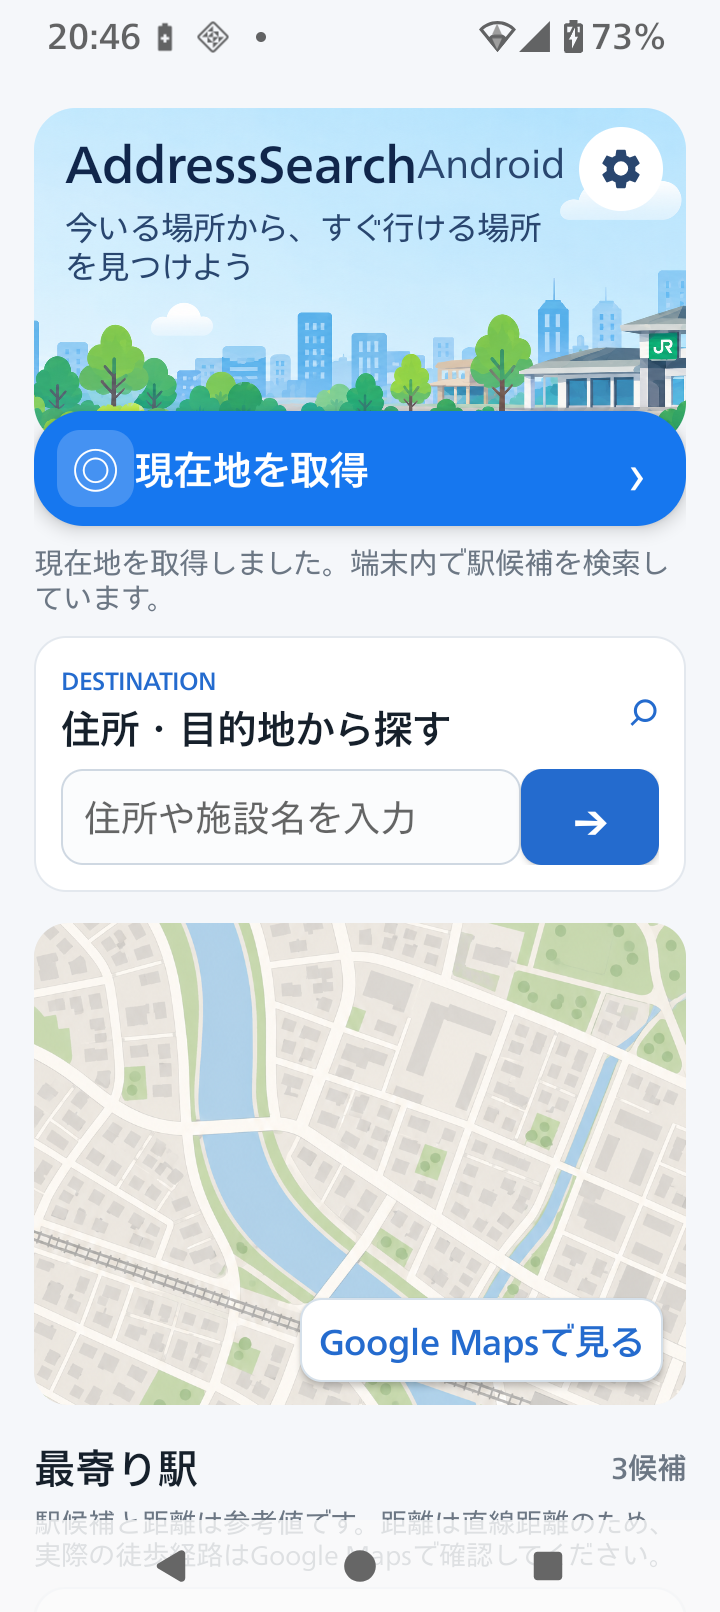
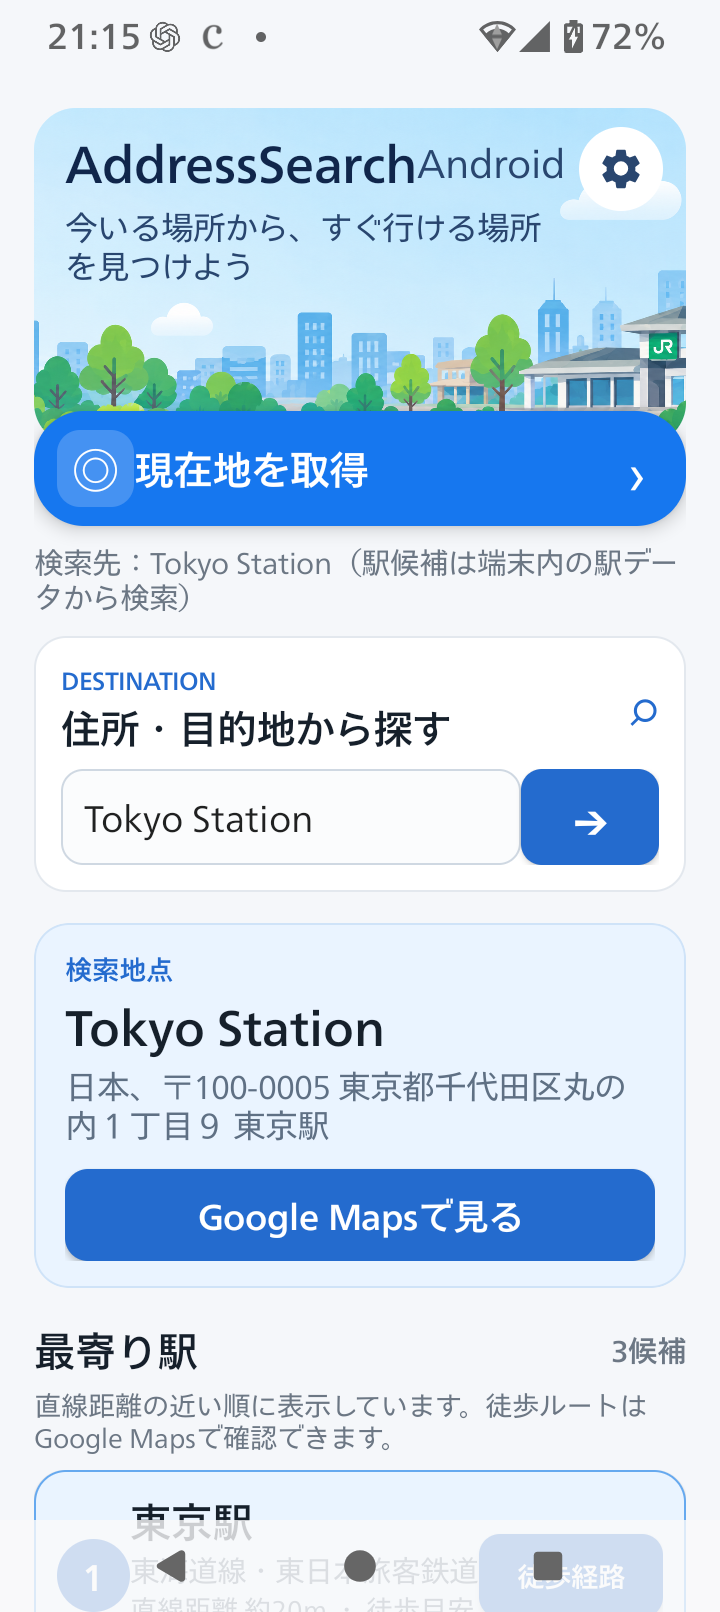
Refresh AddressSearch screenshots and remove map mockup

diff --git a/addresssearch.css b/addresssearch.css
@@ -12,13 +12,11 @@
 .address-page .feature-grid{display:grid;grid-template-columns:repeat(2,minmax(0,1fr));gap:0 34px;margin:35px 0 0;padding:0;list-style:none;border-top:1px solid var(--line)}
 .address-page .feature-grid li{position:relative;padding:20px 6px 20px 28px;border-bottom:1px solid var(--line);font-size:15px;line-height:1.75}
 .address-page .feature-grid li::before{content:"";position:absolute;left:5px;top:31px;width:8px;height:8px;border-radius:50%;background:var(--blue)}
-.address-page .app-visual-grid{display:grid;grid-template-columns:repeat(3,minmax(0,1fr));gap:22px;margin-top:36px;align-items:stretch}
-.address-page .app-screenshot-figure,.address-page .map-figure{margin:0;min-width:0;border:1px solid var(--line);background:var(--white)}
+.address-page .app-visual-grid{display:grid;grid-template-columns:repeat(2,minmax(0,1fr));gap:22px;margin-top:36px;align-items:stretch}
+.address-page .app-screenshot-figure{margin:0;min-width:0;border:1px solid var(--line);background:var(--white)}
 .address-page .app-screenshot-figure{display:flex;min-height:320px;flex-direction:column;align-items:center;justify-content:center;padding:20px;background:linear-gradient(145deg,#f7f9fb,#edf3f6)}
 .address-page .app-screenshot{display:block;width:auto;max-width:100%;max-height:620px;object-fit:contain;border:1px solid #d9e1e7;border-radius:16px;box-shadow:0 12px 28px rgba(24,33,43,.12)}
 .address-page .app-screenshot-figure figcaption{padding:12px 8px 0;color:var(--muted);font-size:12px;line-height:1.7;text-align:center}
-.address-page .map-figure img{display:block;width:100%;height:272px;object-fit:cover;object-position:center}
-.address-page .map-figure figcaption{padding:13px 16px;color:var(--muted);font-size:12px;line-height:1.7}
 .address-page .source-card{margin-top:30px;padding:22px 24px;background:#eef3f6;border-left:3px solid var(--blue)}
 .address-page .source-card p{margin:0;color:#344655;font-size:14px;line-height:1.85}
 .address-page .source-card p+p{margin-top:9px}
@@ -46,7 +44,6 @@
   .address-page .feature-grid{gap:0}
   .address-page .app-screenshot-figure{min-height:0;padding:16px}
   .address-page .app-screenshot{max-height:680px}
-  .address-page .map-figure img{height:auto;max-height:420px;object-fit:cover}
   .address-page .source-card,.address-page .notice-box{padding:18px}
   .address-page .policy-cta{padding:19px;gap:12px}
 }

diff --git a/works/addresssearch/index.html b/works/addresssearch/index.html
@@ -72,16 +72,12 @@
         <p class="work-intro">AddressSearch Androidアプリの実画面と、周辺情報を確認する流れをご紹介します。</p>
         <div class="app-visual-grid">
           <figure class="app-screenshot-figure">
-            <img class="app-screenshot" src="../../assets/addresssearch/address_search_screenshot.png" width="720" height="1612" loading="lazy" alt="AddressSearch Androidアプリの画面。現在地取得、住所・目的地検索、地図と最寄り駅候補が表示されています。">
-            <figcaption>実機表示：現在地取得、目的地検索、地図と駅候補。</figcaption>
+            <img class="app-screenshot" src="../../assets/addresssearch/address_search_screenshot.png" width="720" height="1600" loading="lazy" alt="AddressSearch Androidアプリの実機画面。東京駅の検索地点、住所、Google Mapsへのリンク、最寄り駅候補が表示されています。">
+            <figcaption>実機表示：東京駅の検索地点、住所、最寄り駅候補。</figcaption>
           </figure>
           <figure class="app-screenshot-figure">
-            <img class="app-screenshot" src="../../assets/addresssearch/addresssearch-stations-spots.png" width="720" height="1600" loading="lazy" alt="AddressSearch Androidアプリの画面。駅候補と近くのスポットが表示されています。">
+            <img class="app-screenshot" src="../../assets/addresssearch/addresssearch-stations-spots.png" width="720" height="1600" loading="lazy" alt="AddressSearch Androidアプリの実機画面。東京駅の駅候補と近くのスポットが表示されています。">
             <figcaption>実機表示：駅候補と近くのスポット。</figcaption>
-          </figure>
-          <figure class="map-figure">
-            <img src="../../assets/addresssearch/address_map.png" width="1024" height="1792" loading="lazy" alt="AddressSearchアプリ内で使われる地図を模した案内イメージ">
-            <figcaption>アプリ内の案内イメージです。実際の地図や検索結果ではありません。</figcaption>
           </figure>
         </div>
       </div>
